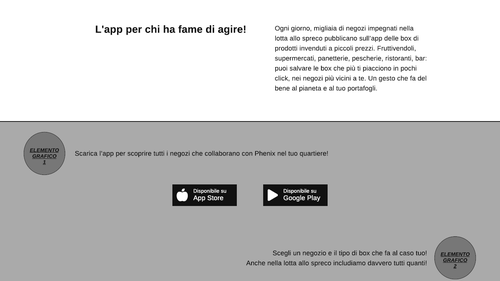
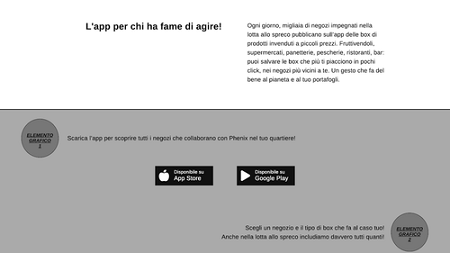
refine responsivness and add <300px with different font-size

diff --git a/portfolio.html b/portfolio.html
@@ -29,7 +29,7 @@
                 <h2>Tesi di laurea magistrale</h2>
                 <figure>
                     <img src="assets/img/ImgPortfolio1Medium.png" srcset="assets/img/ImgPortfolio1Medium.png 400w,
-                    assets/img/ImgPortfolio1Large.png 600w" sizes="(min-width:960px) 600px, (min-width:400px) 400px"
+                    assets/img/ImgPortfolio1Large.png 510w" sizes="(min-width:960px) 510px, (min-width:400px) 400px"
                     alt="Pirogramma dell'estratto dalla sabbia"/>
                     <figcaption>Le analisi attraverso <a href="https://www.sciencedirect.com/topics/earth-and-planetary-sciences/pyrolysis-gas-chromatography">
                     Py-GC/MS</a> dell'estratto in diclorometano dalla sabbia rivelano la presenza di prodotti 
@@ -50,7 +50,7 @@
                 <h2>Tesi CLIL</h2>
                 <figure>
                     <img src="assets/img/ImgPortfolio2Medium.png" srcset="assets/img/ImgPortfolio2Medium.png 400w,
-                    assets/img/ImgPortfolio2Large.png 600w" sizes="(min-width:960px) 600px, (min-width:400px) 400px"
+                    assets/img/ImgPortfolio2Large.png 510w" sizes="(min-width:960px) 510px, (min-width:400px) 400px"
                     alt="Continuum fra orientamento strumentale e orientamento integrativo/affettivo"/>
                     <figcaption>Continuum fra orientamento strumentale e orientamento integrativo/affettivo in 
                     relazione ai fenomeni di apprendimento linguistico.</figcaption>
@@ -100,6 +100,8 @@
                     è quello del brand del sito di riferimento. Questo è un difetto estetico che un buon
                     UX/UI designer dovrebbe evitare. È emersa la paura di osare e sbagliare, ma lavorare 
                     su tale progetto è stato comunque utile per ambientarsi nel mondo dell'UX/UI design.</p>
+                </div>
+                <div class="buttons-container">
                     <button><a href="assets/docs portfolio/Progetto intro UX-UI di William Mariella.pdf"
                     title="Progetto intro UX/UI di William Mariella" 
                     download="Progetto_intro_UX/UI_di_William_Mariella" target="_blank">

diff --git a/assets/styles/partial_tablet_style.scss b/assets/styles/partial_tablet_style.scss
@@ -1,9 +1,9 @@
 @media only screen and (min-width: 400px) and (max-width: 699px) {
     nav a picture {
-       margin-left: 1em;
+       margin-left: 2vw;
     }
     nav ul {
-        margin-right: calc(1vw + 1.5em);
+        margin-right: calc(1vw + 1em);
     }
     .page,
     .page-model-2
@@ -18,10 +18,10 @@
 }
 @media only screen and (min-width: 700px) and (max-width: 959px) {
     nav a picture {
-        margin-left: calc(10vw + 1em);
+        margin-left: calc(9vw - 0.5em);
     }
     nav ul {
-        margin-right: calc(10vw + 1.5em);
+        margin-right: calc(6vw + 1em);
     }
     .page,
     .page-model-2,
@@ -32,6 +32,13 @@
     }
     .bio figure img {
         margin: 0 100%;
+    }
+    .buttons-container {
+        display: block;
+        justify-items: space-between;
+        button {
+            margin: 20px 0;
+        }
     }
 }
 

diff --git a/assets/styles/partial_tablet_style.css b/assets/styles/partial_tablet_style.css
@@ -1,9 +1,9 @@
 @media only screen and (min-width: 400px) and (max-width: 699px) {
   nav a picture {
-    margin-left: 1em;
+    margin-left: 2vw;
   }
   nav ul {
-    margin-right: calc(1vw + 1.5em);
+    margin-right: calc(1vw + 1em);
   }
   .page,
   .page-model-2 .footer-content {
@@ -17,10 +17,10 @@
 }
 @media only screen and (min-width: 700px) and (max-width: 959px) {
   nav a picture {
-    margin-left: calc(10vw + 1em);
+    margin-left: calc(9vw - 0.5em);
   }
   nav ul {
-    margin-right: calc(10vw + 1.5em);
+    margin-right: calc(6vw + 1em);
   }
   .page,
   .page-model-2,
@@ -31,5 +31,12 @@
   }
   .bio figure img {
     margin: 0 100%;
+  }
+  .buttons-container {
+    display: block;
+    justify-items: space-between;
+  }
+  .buttons-container button {
+    margin: 20px 0;
   }
 }/*# sourceMappingURL=partial_tablet_style.css.map */

diff --git a/assets/styles/styles.css b/assets/styles/styles.css
@@ -233,22 +233,32 @@ footer img {
   list-style-type: disclosure-closed;
 }
 
-.content button {
+.buttons-container {
+  display: flex;
+  flex-flow: wrap column;
+}
+
+.content button,
+.buttons-container button {
   display: block;
-  margin: 30px auto;
-  padding: 5px 15px;
   background-color: #c76ad1;
+  margin: 20px auto;
+  padding: 5px 15px;
   border-radius: 15px;
   border: 1px solid #73878a;
 }
-.content button:hover {
+.content button:hover,
+.buttons-container button:hover {
   background-color: #9833a2;
 }
-.content button a {
+.content button a,
+.buttons-container button a {
   text-decoration: none;
   color: whitesmoke;
 }
-.content button a:hover {
+.content button a:hover,
+.buttons-container button a:hover {
+  text-decoration: none;
   color: whitesmoke;
 }
 

diff --git a/assets/styles/styles.scss b/assets/styles/styles.scss
@@ -215,11 +215,16 @@ footer {
         list-style-type: disclosure-closed; 
         }
 }
-.content button {
+.buttons-container {
+    display: flex;
+    flex-flow: wrap column;
+}
+.content button,
+.buttons-container button {
     display: block;
-    margin: 30px auto;
-    padding: 5px 15px;
     background-color: darken($coloured-light-grey-1, 30%);
+    margin: 20px auto;
+    padding: 5px 15px;
     border-radius: 15px;
     border: 1px solid $nav-color;
     &:hover {
@@ -229,6 +234,7 @@ footer {
         text-decoration: none;
         color: whitesmoke;
         &:hover {
+            text-decoration: none;
             color: whitesmoke;
         }
     }

diff --git a/assets/styles/partial_laptop_style.css b/assets/styles/partial_laptop_style.css
@@ -1,9 +1,9 @@
 @media only screen and (min-width: 960px) {
   nav a picture {
-    margin-left: calc(20vw + 1em);
+    margin-left: calc(15vw + 0.7em);
   }
   nav ul {
-    margin-right: calc(10vw + 1.5em);
+    margin-right: calc(13vw + 1.5em);
   }
   .page,
   .footer-content {
@@ -38,5 +38,8 @@
   }
   video {
     width: 50%;
+  }
+  .buttons-container {
+    justify-items: space-around;
   }
 }/*# sourceMappingURL=partial_laptop_style.css.map */

diff --git a/assets/styles/partial_laptop_style.scss b/assets/styles/partial_laptop_style.scss
@@ -1,9 +1,9 @@
 @media only screen and (min-width: 960px) {
     nav a picture {
-        margin-left: calc(20vw + 1em);
+        margin-left: calc(15vw + 0.7em);
     }
     nav ul {
-        margin-right: calc(10vw + 1.5em);
+        margin-right: calc(13vw + 1.5em);
     }
     .page,
     .footer-content {
@@ -37,5 +37,8 @@
     }
     video {
         width: 50%;
+    }
+    .buttons-container {
+        justify-items: space-around;
     }
 }
